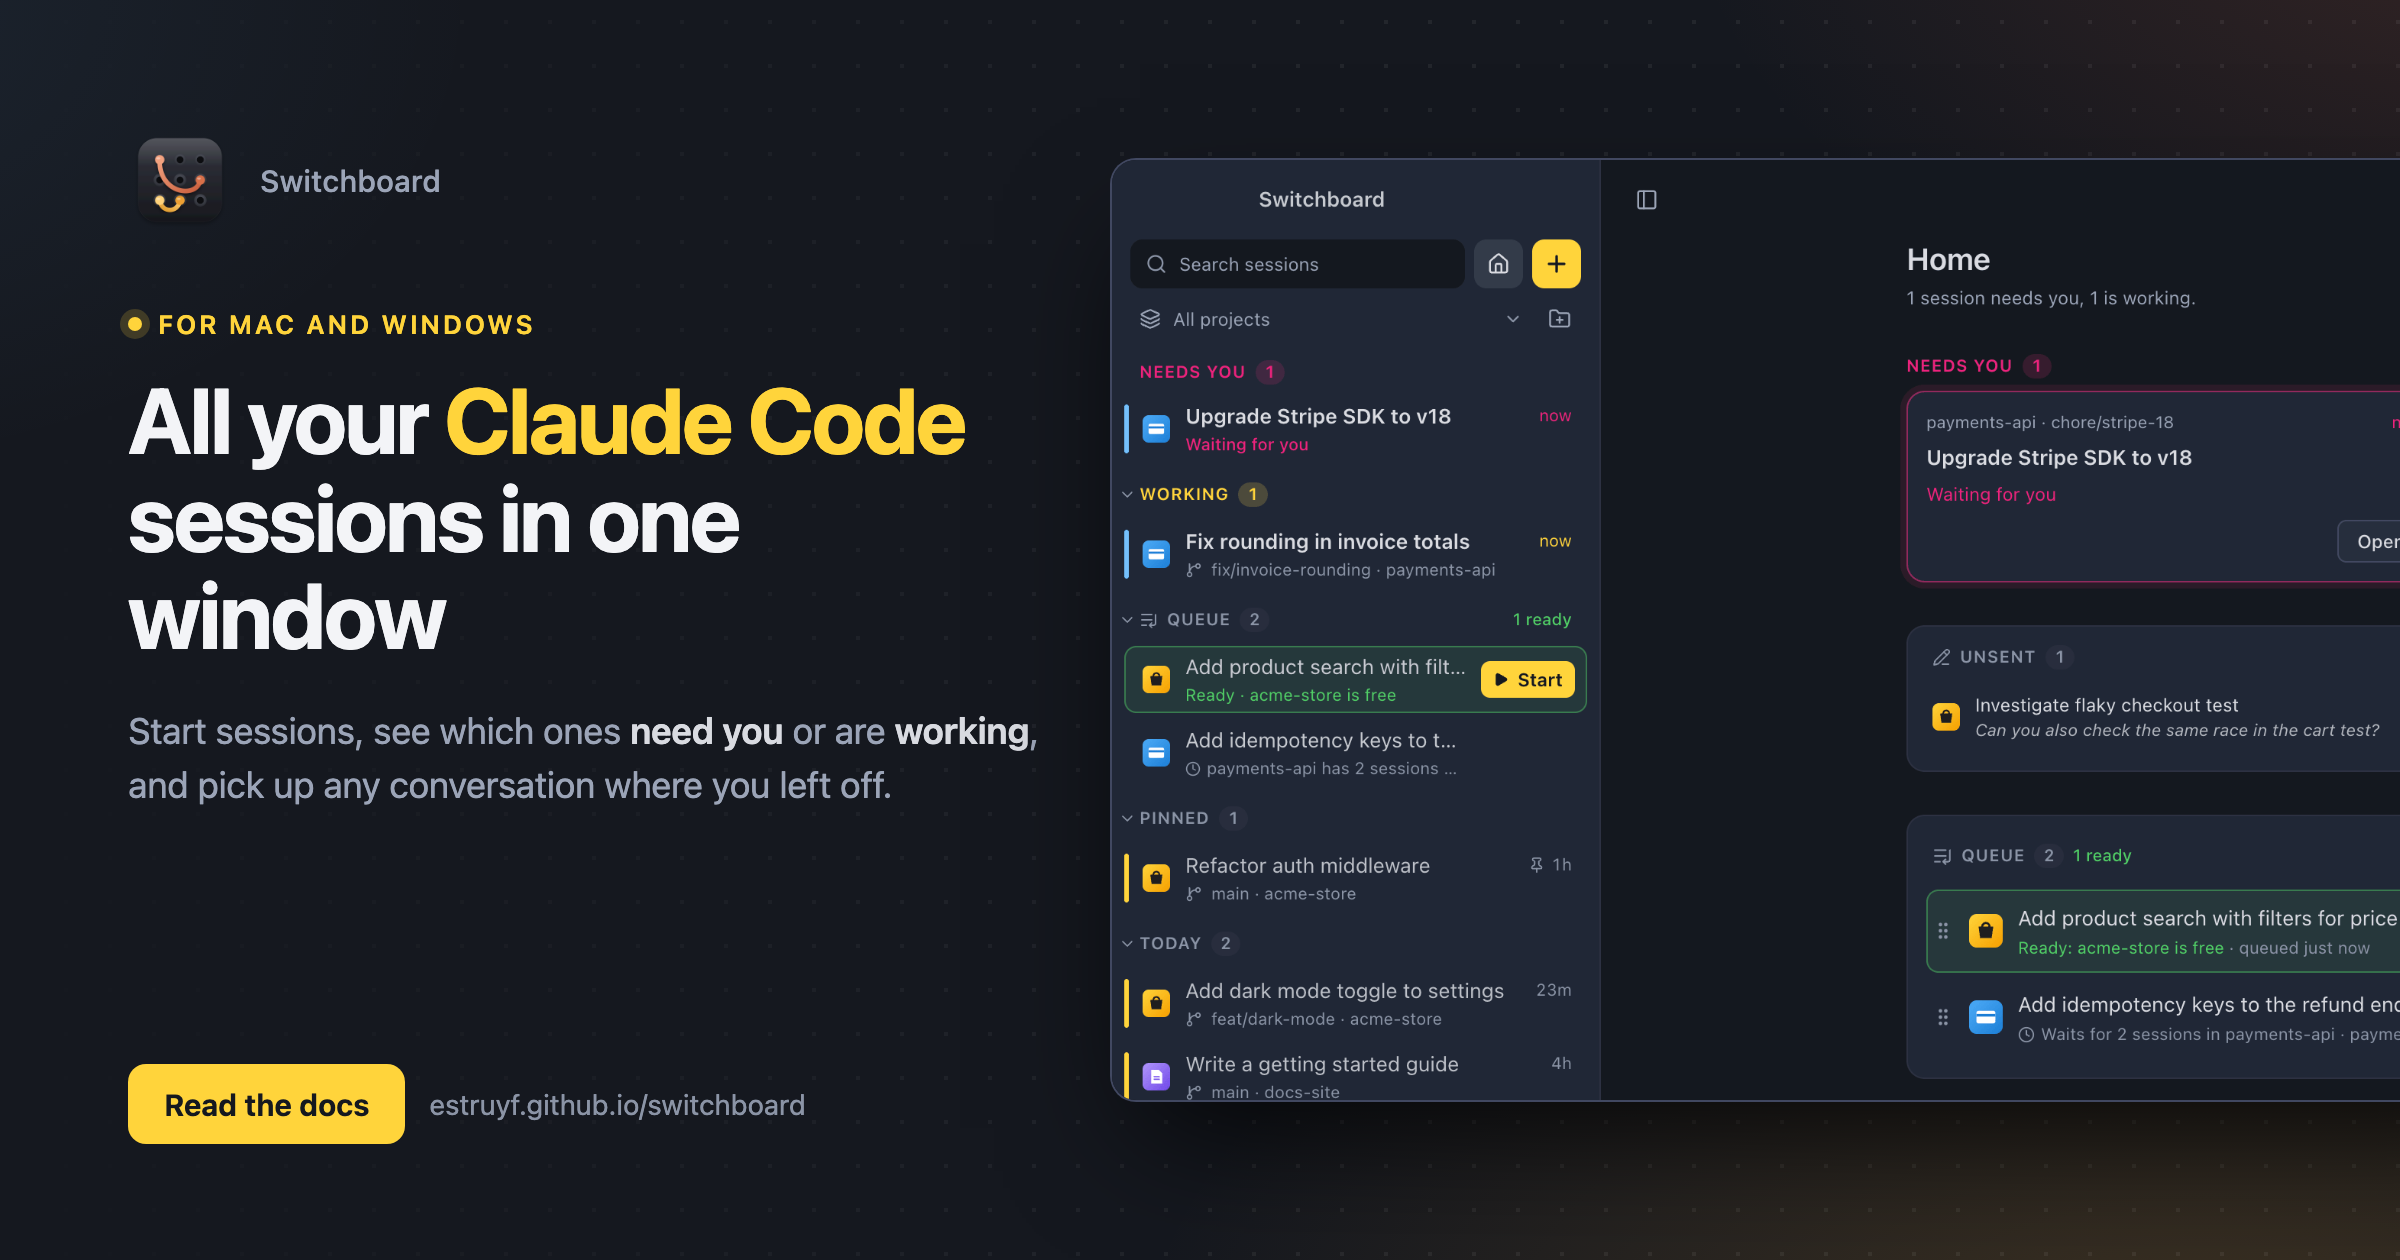
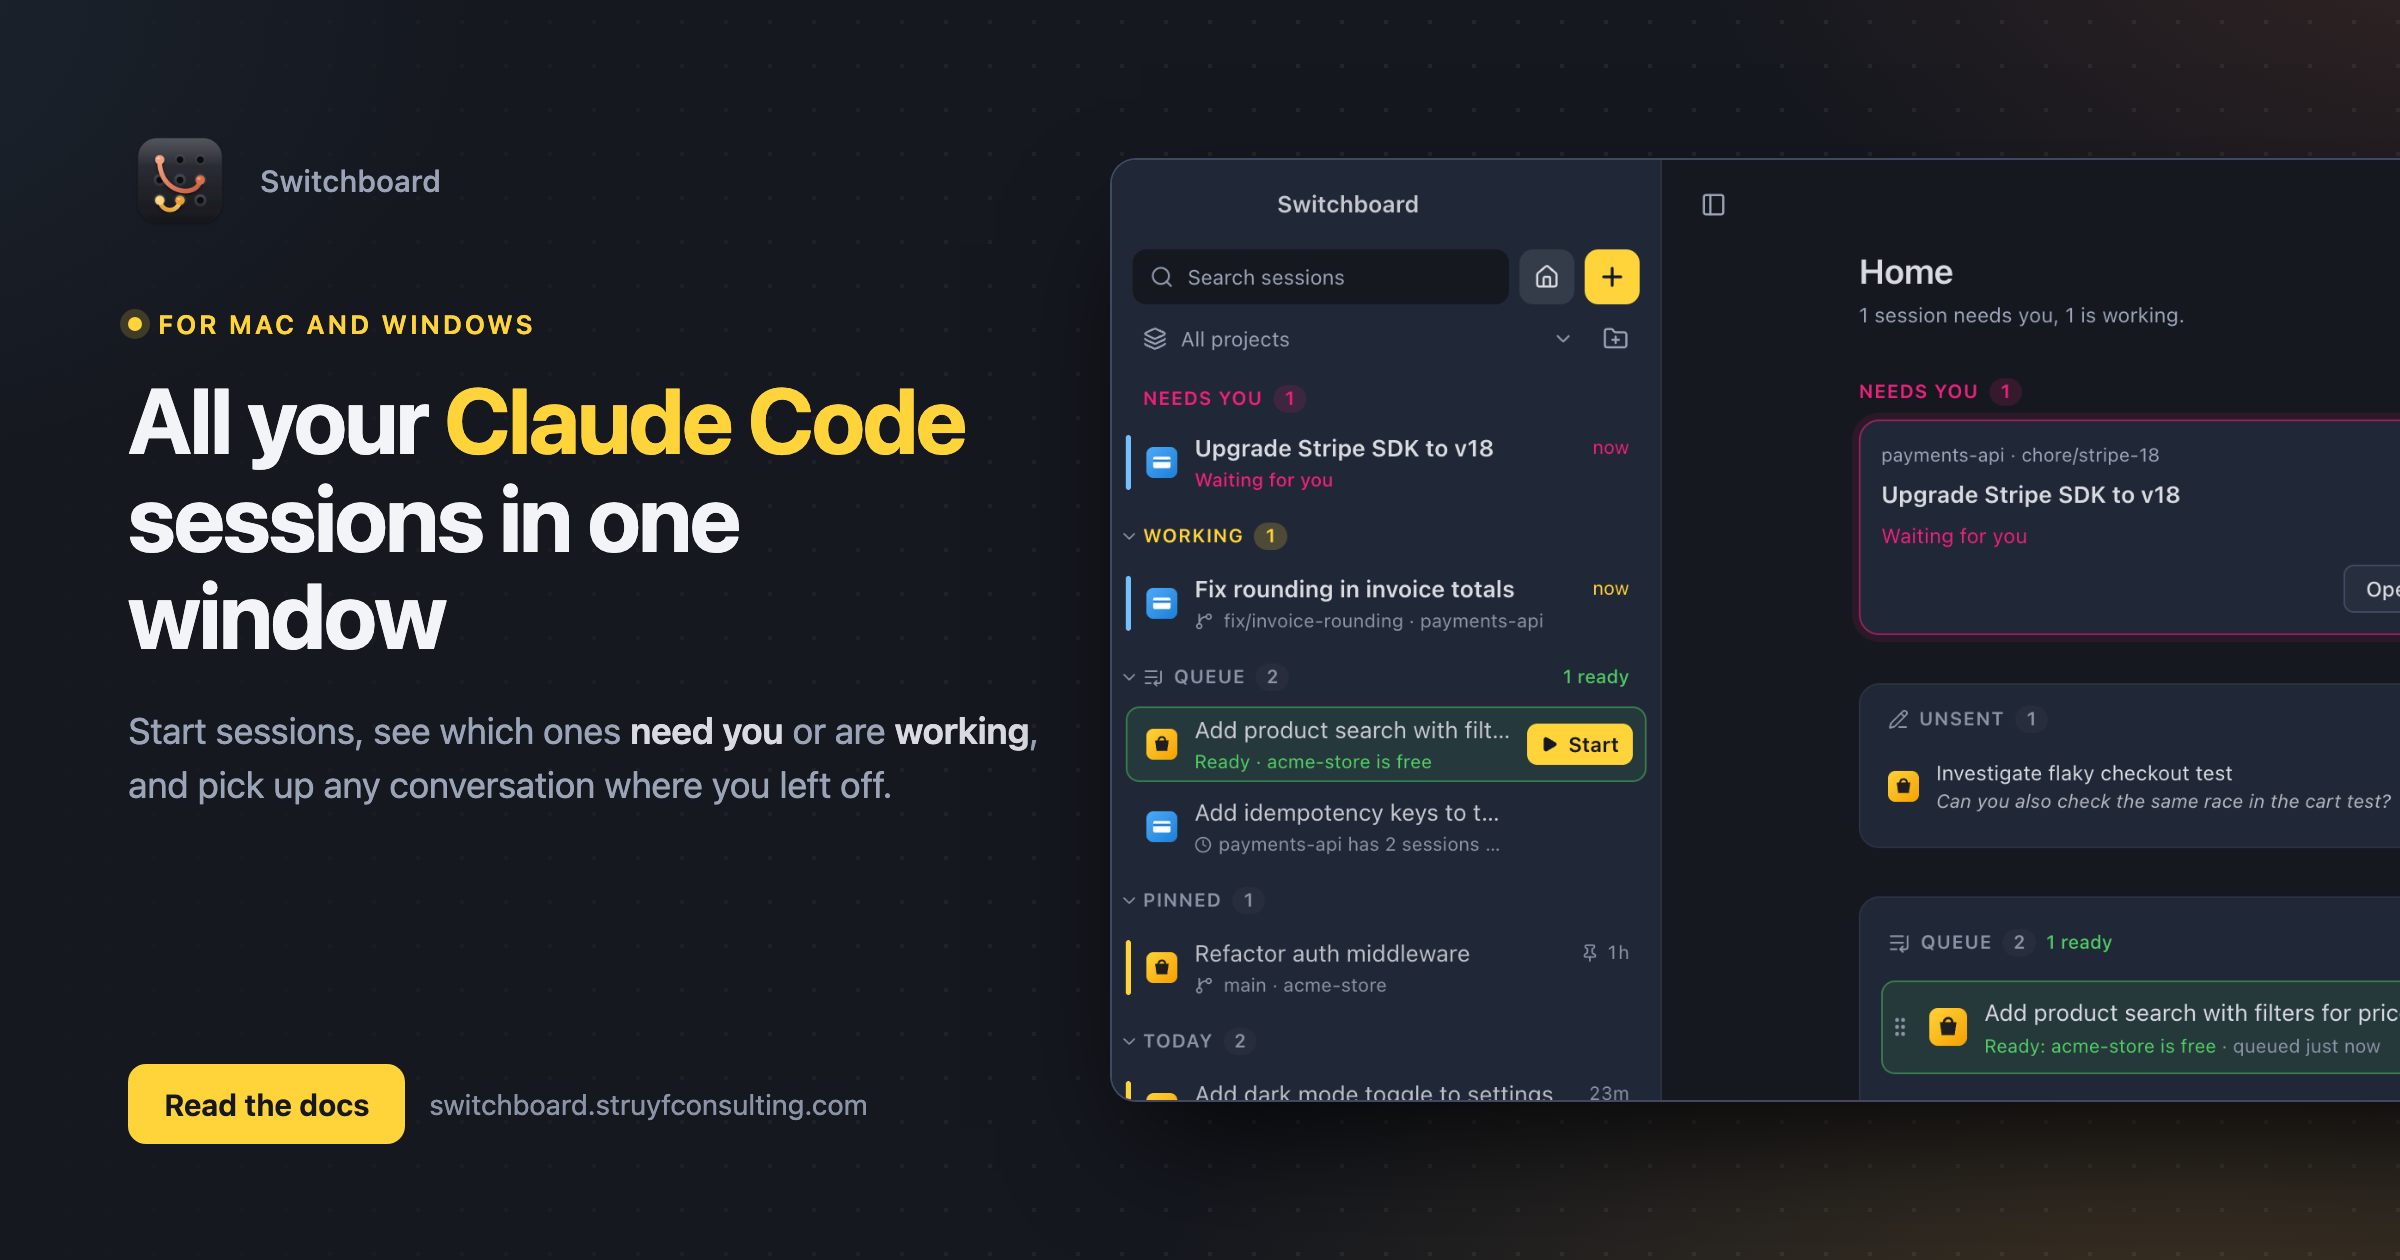
chore: update website domain references to switchboard.struyfconsulting.com

diff --git a/social/website/index.html b/social/website/index.html
@@ -29,7 +29,7 @@
 
   <div class="cta">
     <span class="btn">Read the docs</span>
-    <span class="where">estruyf.github.io/switchboard</span>
+    <span class="where">switchboard.struyfconsulting.com</span>
   </div>
 
   <div class="stage">

diff --git a/CLAUDE.md b/CLAUDE.md
@@ -4,12 +4,12 @@ Read [AGENTS.md](AGENTS.md) first: it has the architecture, commands, convention
 
 ## Release checklist
 
-The website (`website/`, published at https://estruyf.github.io/switchboard/) documents every feature. Do these before every release, next to the steps under Releases in AGENTS.md:
+The website (`website/`, published at https://switchboard.struyfconsulting.com/) documents every feature. Do these before every release, next to the steps under Releases in AGENTS.md:
 
 1. For every user-facing change since the last release (the `## [Unreleased]` section of `CHANGELOG.md`), check that its docs page in `website/src/content/docs/` is updated. Add a page if the feature is new, and add it to the sidebar in `website/src/sidebar.mjs`.
 2. Update `website/src/content/features.json` (one entry per feature, with the page that covers it) and make sure the coverage test passes: `npx vitest run website` (it is part of `npm run check`). It fails when a palette command, a shortcut, a Settings section or a project tab has no entry, or when an entry points at a page that doesn't exist.
 3. On a Mac, run `npm run website:screenshots` and commit the changed images in `website/src/assets/screenshots/`. Look at them: demo data only, no real projects, paths or names. If a screen fails, its `data-*` hooks changed: fix `scripts/website-screenshots.ts` rather than skipping it.
-4. Check that `CHANGELOG.md` has the release section and that the Changelog page shows it (`npm run website:dev`, then `/switchboard/changelog/`).
+4. Check that `CHANGELOG.md` has the release section and that the Changelog page shows it (`npm run website:dev`, then `/changelog/`).
 5. Run `npm run website:build`. It validates every internal link (`starlight-links-validator`) and fails on a broken one or a missing screenshot; it must pass.
 6. A release is not done until the docs are updated.
 

diff --git a/CHANGELOG.md b/CHANGELOG.md
@@ -6,7 +6,7 @@ All notable changes to Switchboard are listed here. Each release is also on the 
 
 ### New
 
-- **A website with the full docs** at [estruyf.github.io/switchboard](https://estruyf.github.io/switchboard/): every feature, every setting and every keyboard shortcut, with screenshots in light and dark.
+- **A website with the full docs** at [switchboard.struyfconsulting.com](https://switchboard.struyfconsulting.com/): every feature, every setting and every keyboard shortcut, with screenshots in light and dark.
 - **Search memory.** ⇧⌘F finds memories too, in their own group above conversations, by type and project; *Search memory…* in the command palette searches memory only. A memory Claude saves during a session shows in the conversation as one **Saved memory** line, and a session's menu lists the memories it wrote.
 - **Links between memories.** `[[name]]` links open the memory they name; the editor lists what links to a memory and the links not written yet (with **Write it…**), suggests names as you type `[[`, and Rename… can update the links to it.
 - **Remember this.** Select text in the conversation (or right-click a message) to save it as a memory in this project, another one or Personal, straight to the file, without using Claude.

diff --git a/README.md b/README.md
@@ -492,7 +492,7 @@ Switchboard reads the session files Claude Code already keeps in `~/.claude` (an
 
 ## Documentation
 
-The full guide to every feature is on the website: **[estruyf.github.io/switchboard](https://estruyf.github.io/switchboard/)**.
+The full guide to every feature is on the website: **[switchboard.struyfconsulting.com](https://switchboard.struyfconsulting.com/)**.
 
 - [Themes](docs/themes.md): the theme file format, every colour and where it shows, and code colours.
 - [Project actions](docs/project-actions.md): add buttons for your own commands and prompts, and share them with your team.

diff --git a/social/website/posts.md b/social/website/posts.md
@@ -1,6 +1,6 @@
 # Website
 
-The Open Graph image of the website (https://estruyf.github.io/switchboard/). Render it with `social/render.sh website`, then copy it at 1200×630 to `website/public/og.png`:
+The Open Graph image of the website (https://switchboard.struyfconsulting.com/). Render it with `social/render.sh website`, then copy it at 1200×630 to `website/public/og.png`:
 
 ```bash
 social/render.sh website
